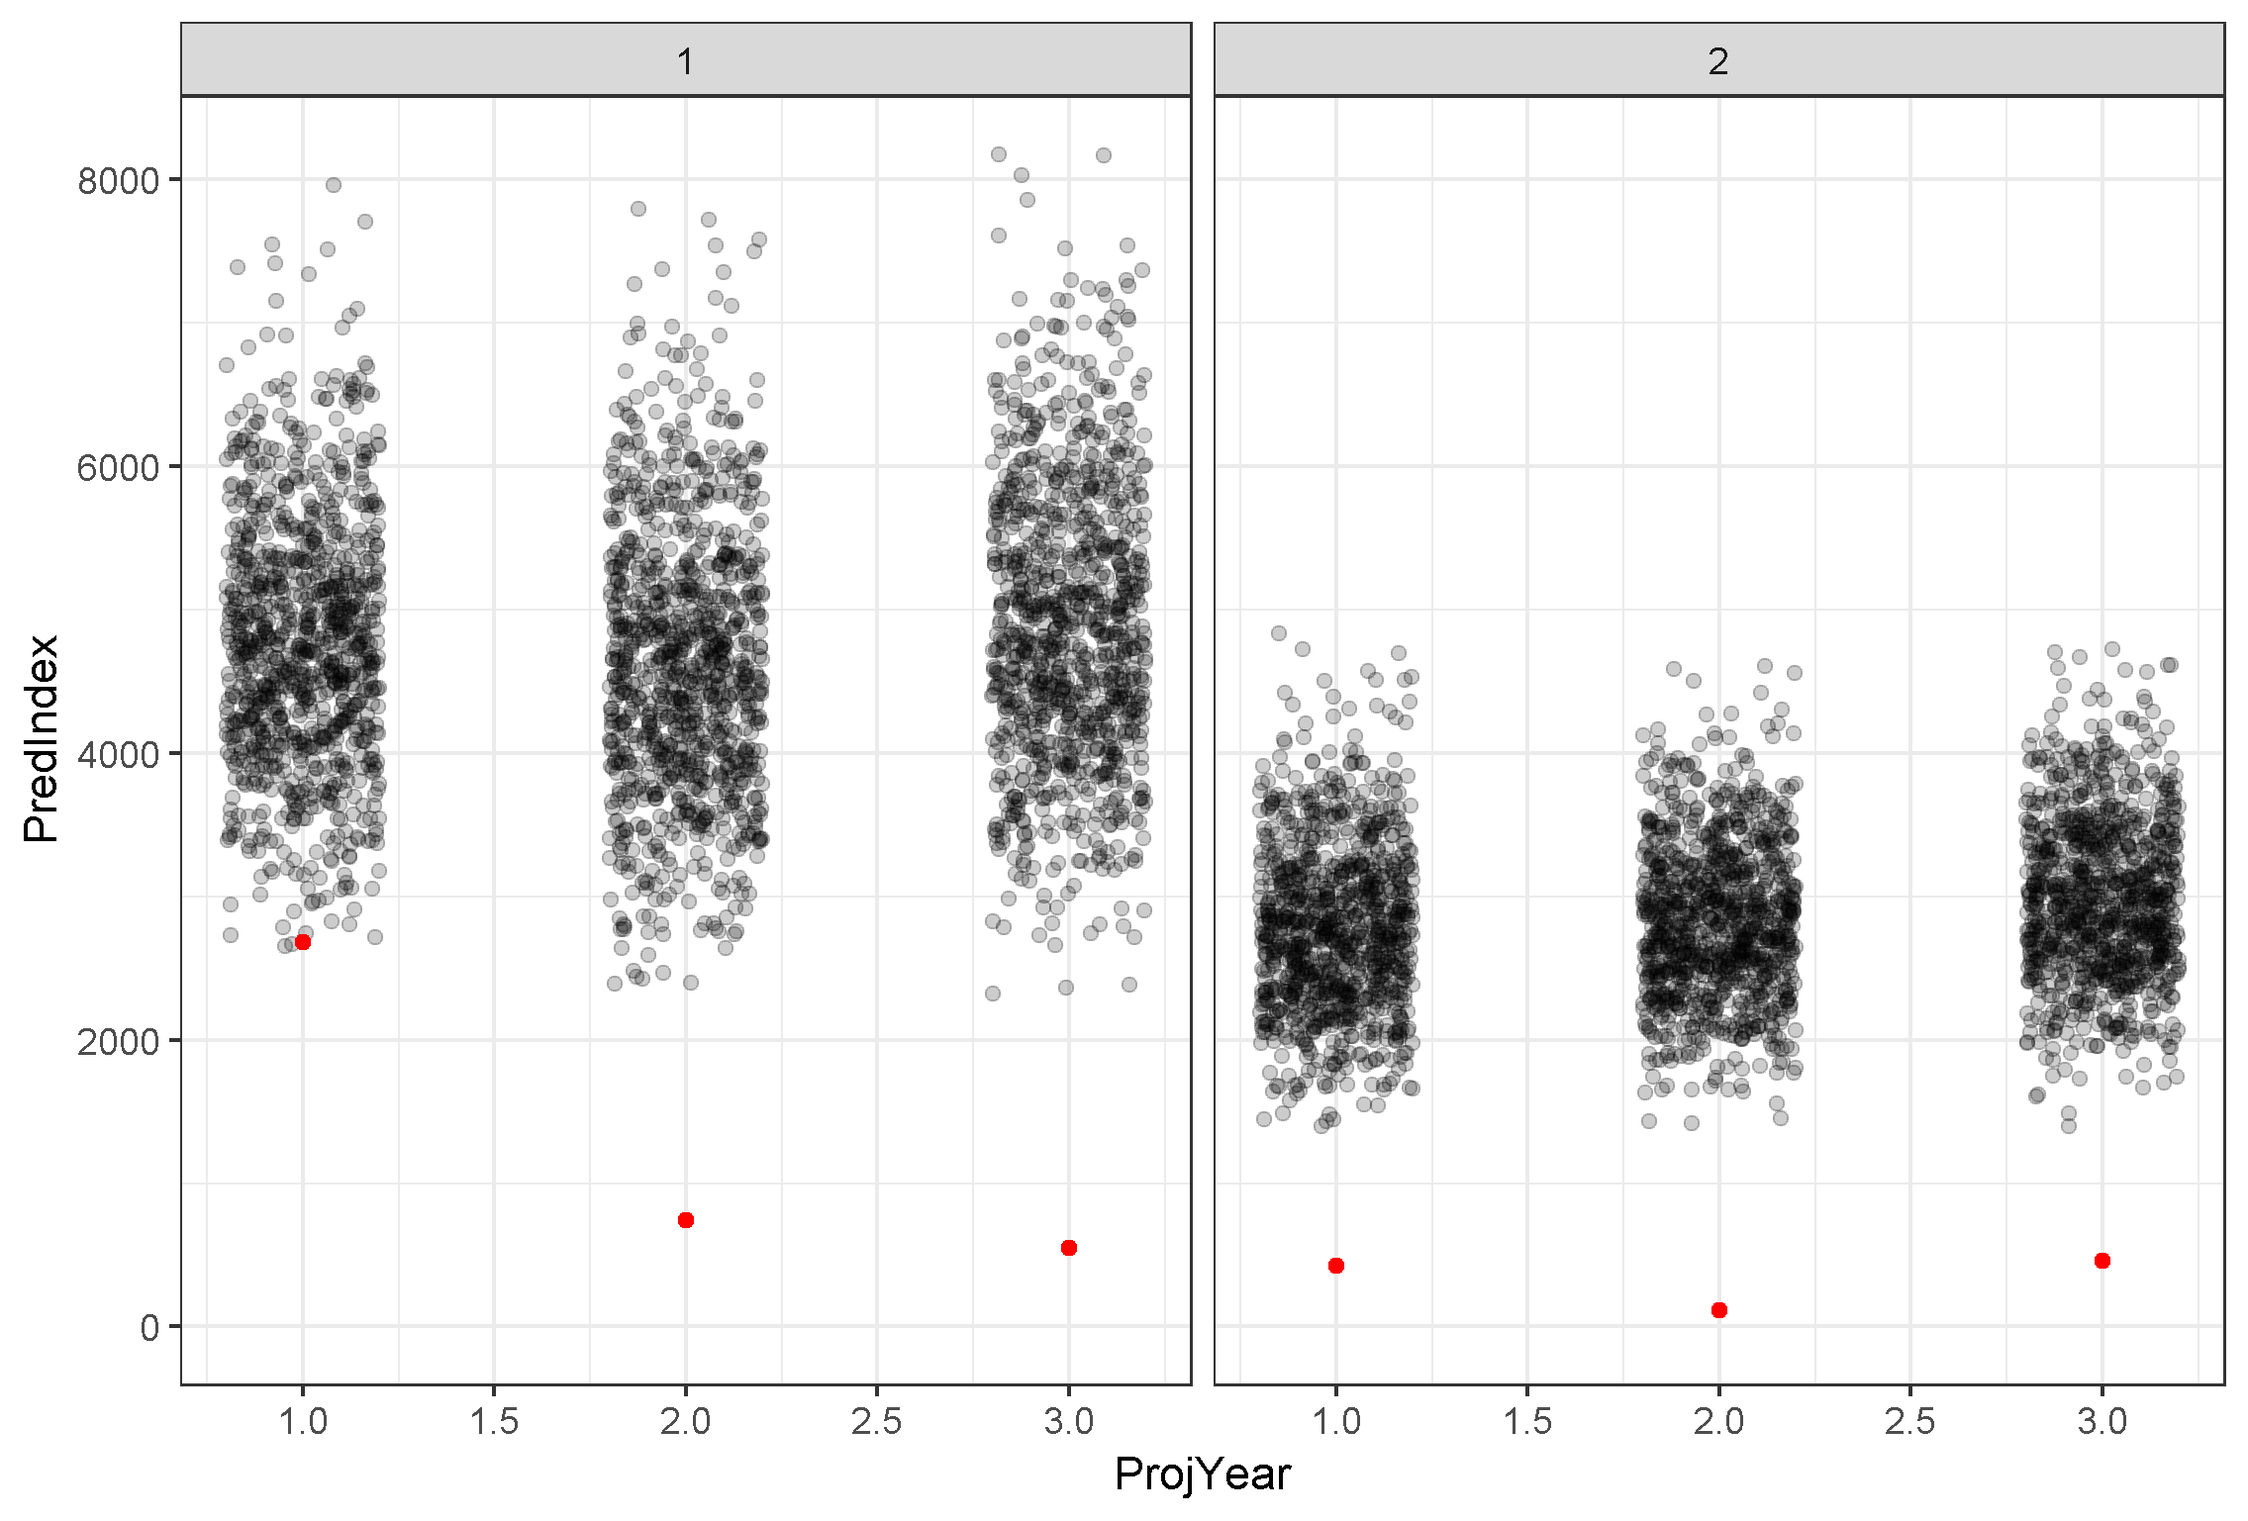
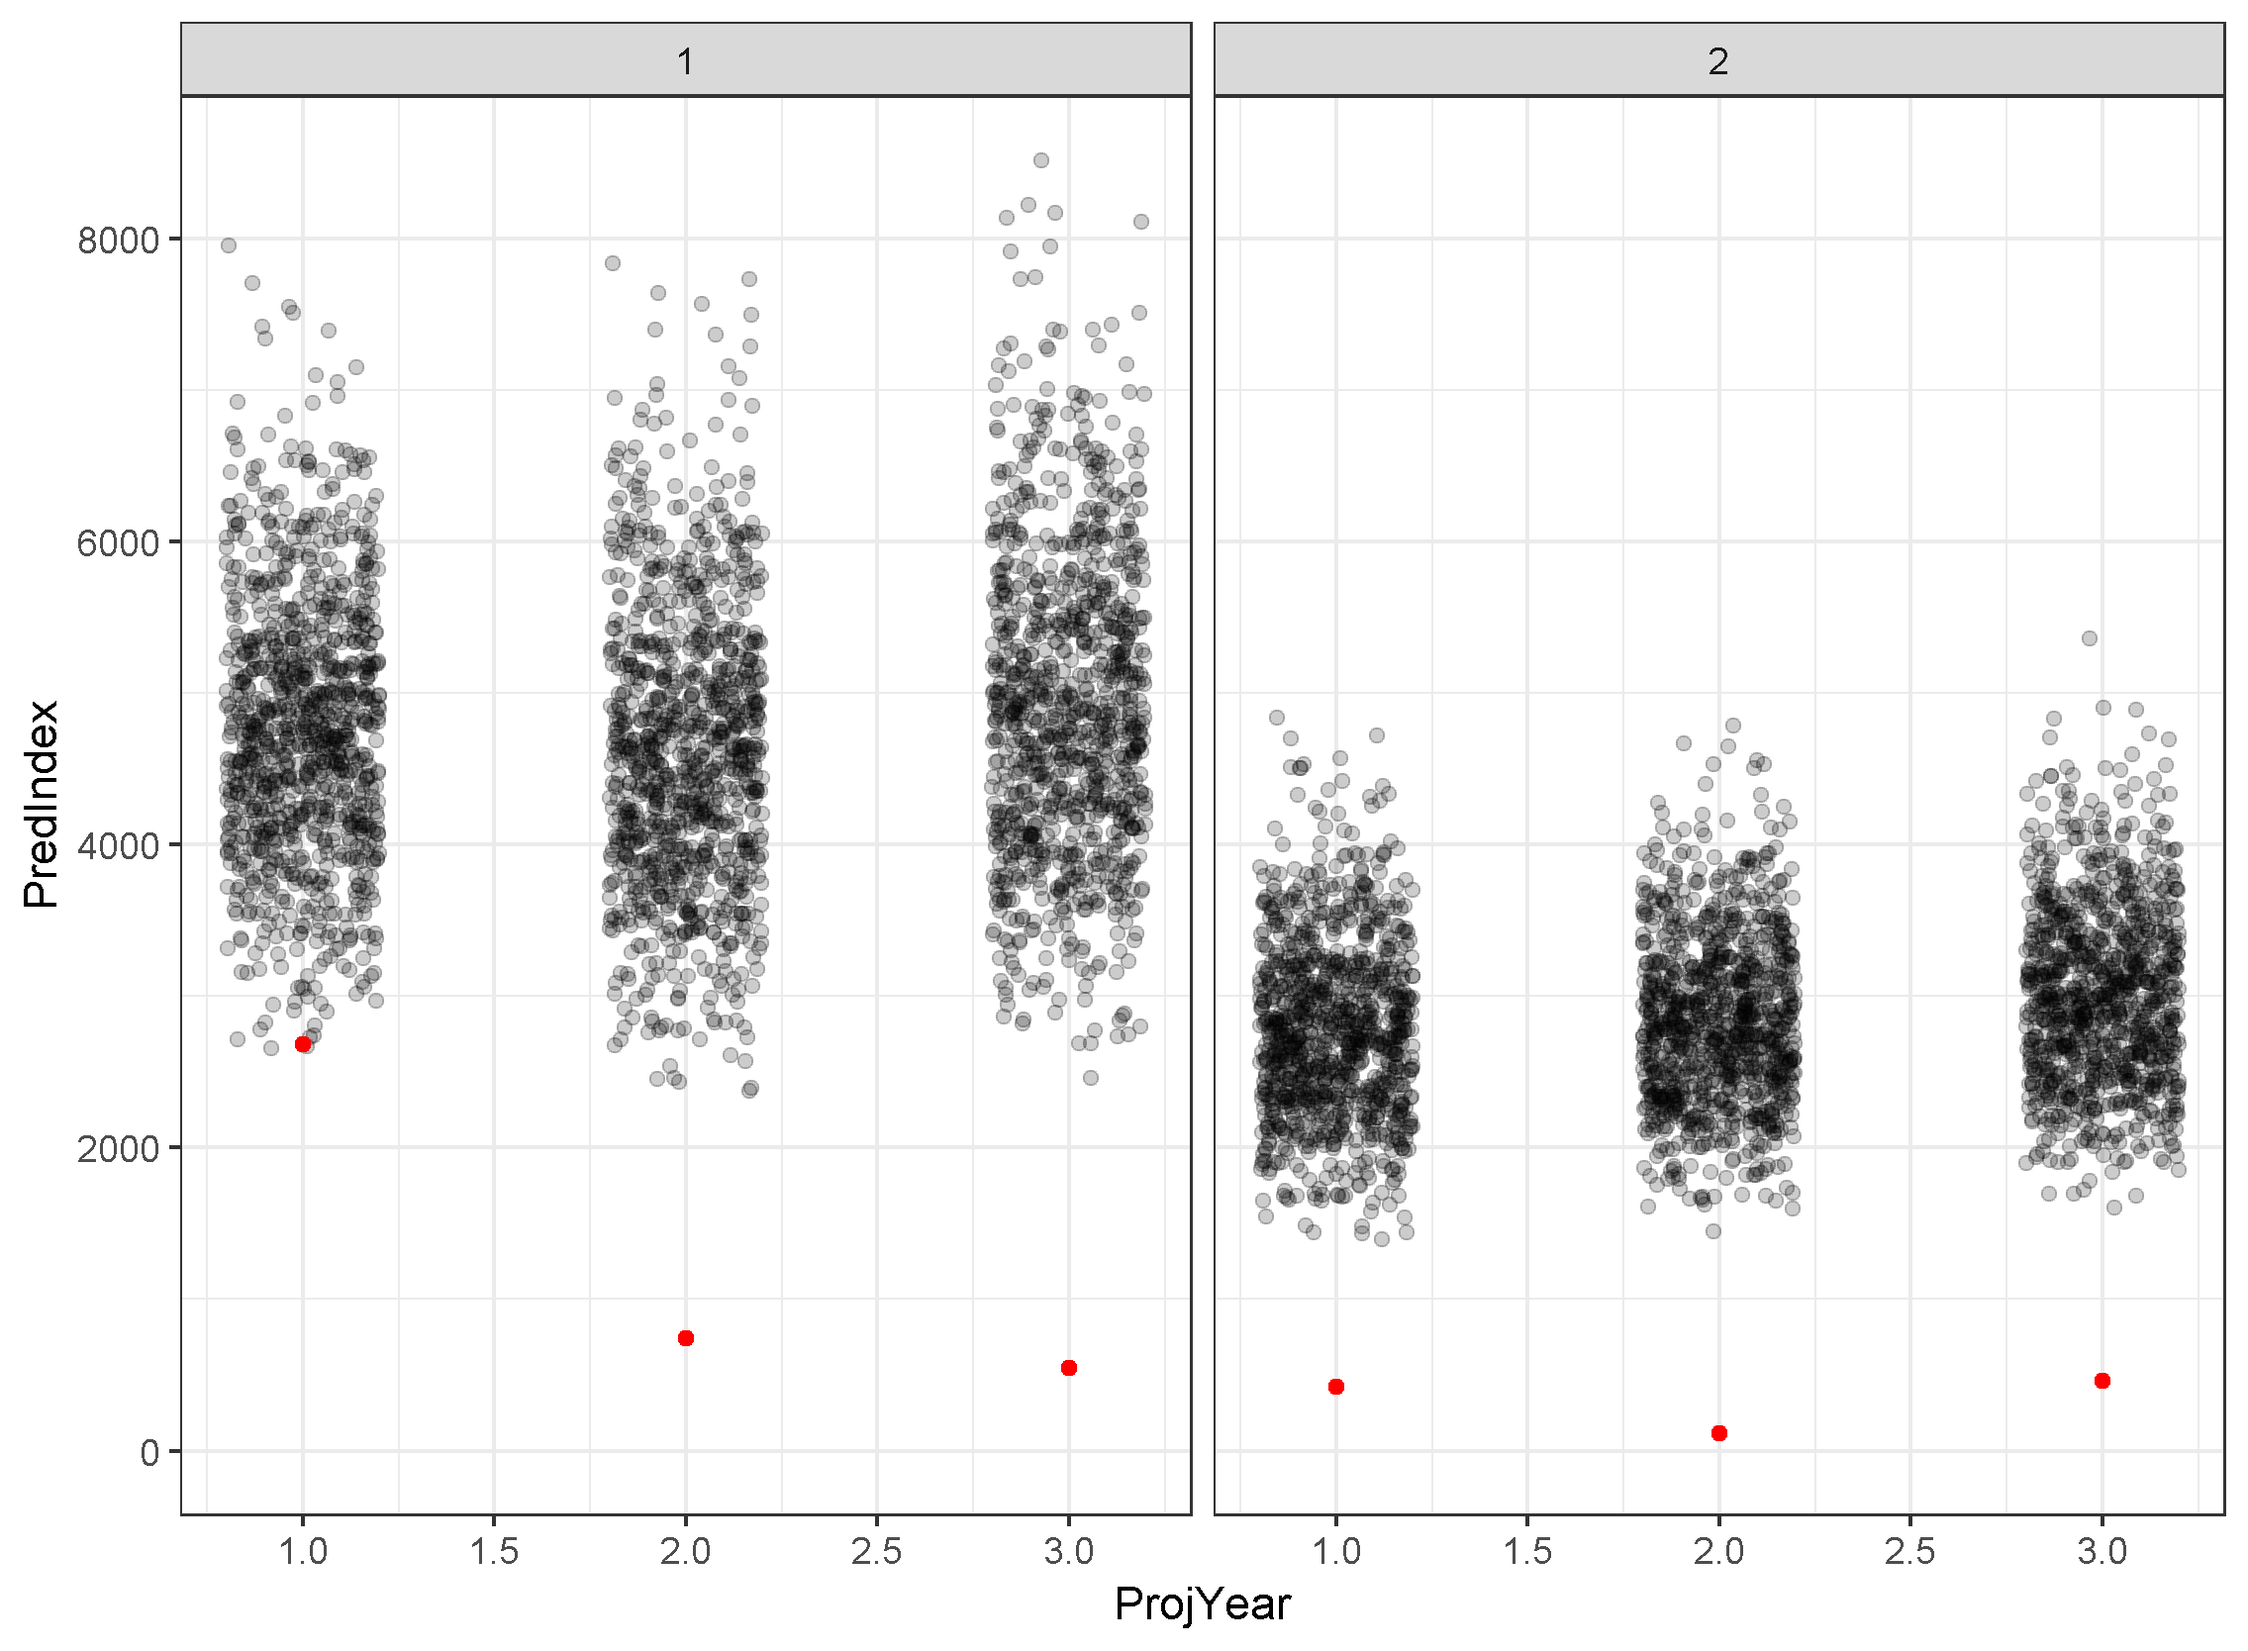
update Read me and fix F rho adjustment

diff --git a/state-space/ASAP_3_year_projection_test/README.md b/state-space/ASAP_3_year_projection_test/README.md
@@ -1,2 +1,25 @@
 # ASAP 3 year projection test
-Will fill this in with details shortly...
+
+This directory demonstrates one way to test the three year projections from ASAP. It uses Southern New England Mid-Atlantic yellowtail flounder (SNEMAYT) as an example. The directory is arranged so that the analyses can be repeated by others and applied to other stocks relatively easily. This is a work in progress, any feedback is welcomed (Chris.Legault@noaa.gov).
+
+## Before you begin
+The ASAP program can be downloaded from the NOAA Fisheries Toolbox (http://nft.nefsc.noaa.gov/). It is a statistical catch-at-age model with a nice graphical user interface (GUI). The selected stock is run in ASAP saving the rdat file. The naming conventions are assumed to follow a specific pattern in this analysis. The name of the full model run is denoted <asap.file.name> here. For this example, <asap.file.name> is SNEMAYT_ASAP. The <asap.file.name>.dat and <asap.file.name>.rdat files are copied into the data directory. The selected stock then has the most recent three years removed by changin the end year in the GUI. This run is named <asap.file.name>_DROP3 and is run in basic, retro (as <asap.file.name>_DROP3_RETRO) and in MCMC (as <asap.file.name>_DROP3_MCMC) modes. The following files are then copied into the data directory: <asap.file.name>_DROP3.rdat and <asap.file.name>_DROP3_MCMC.BSN. The ASAPplots R package (available at https://github.com/cmlegault/ASAPplots) is run on all three cases and the following files are copied into the data directory: Retro.rho.values_<asap.file.name>_DROP3_RETRO_000.csv, Freport.90pi_<asap.file.name>_DROP3_MCMC.csv, and ssb.90pi_<asap.file.name>_DROP3_MCMC.csv. This provides the all the necessary starting conditions for the analyses.
+
+## Running the R code
+The R code is set up to be able to be run by sourcing the highest number file. Remember to set the working directory to the source file location before beginning. There are a few user selections that have to be handled for each stock. Most importantly, in 1_check_data.r the user needs to define asap.file.name. In that same file, there is the ability to replace Mohn's rho for SSB with a vector of age-specific Mohn's rho values for the retrospective adjustment. In 2_get_recent_average_info.r the user needs to ensure that the average of the recent five years for M, selectivity, and weight at age is reasonable for the stock (the standard approach used in the Northeast US is a five year average). In that same file, the years used to create an empirical cdf for sampling to generate stochastic recruitment in the projection years is determined. For the SNEMAYT case, the poor recent recruitment was selected to continue. Other stocks may use all years of historical recruitment. Finally, in 3_project_three_years.r, the user needs to set the maximum F multiplier allowed when searching for the F to match the catch in the projection years. 
+
+There are currently only two output graphics. The first shows the Mohn's rho plot for the stock with the point estimates of SSB and Freport surrounded by a box of the 90% confidence intervals from the MCMC. The rho-adjusted (= point estimate / (1 + Mohn's rho value)) SSB and F point is also shown. The standard approach in the Northeast US is to apply the Mohn's rho adjustment when the adjusted point is outside the box (meaning either the SSB or the Freport is outside the 90% CI). In the SNEMAYT case, the adjusted point is outside the 90%CI for both, so the rho-adjustment is applied.
+
+## SNEMAYT example
+The rho-adjusted SSB and Freport were both outside the 90% CI, as seen in the following plot where the rho-adjusted point is shown in red, so the rho-adjustment was applied to the starting population.
+<img src="..\\output\\Mohns.rho.plot.png" width="800">
+
+The distribution of predicted aggregate indices (black circles) are well above the observed index values (red circles) for all three years in both indices (the two panels).
+<img scr="..\\output\\aggregate_index_plot.png" width="800">
+
+## To do
+There are still a number of items on the to do list. 
+* Include the predicted indices at age comparison.
+* Add a number of checks to prevent crashing when data are missing.
+* If program starts to take too long to run, figure out the matrix multiplication in projections.
+
